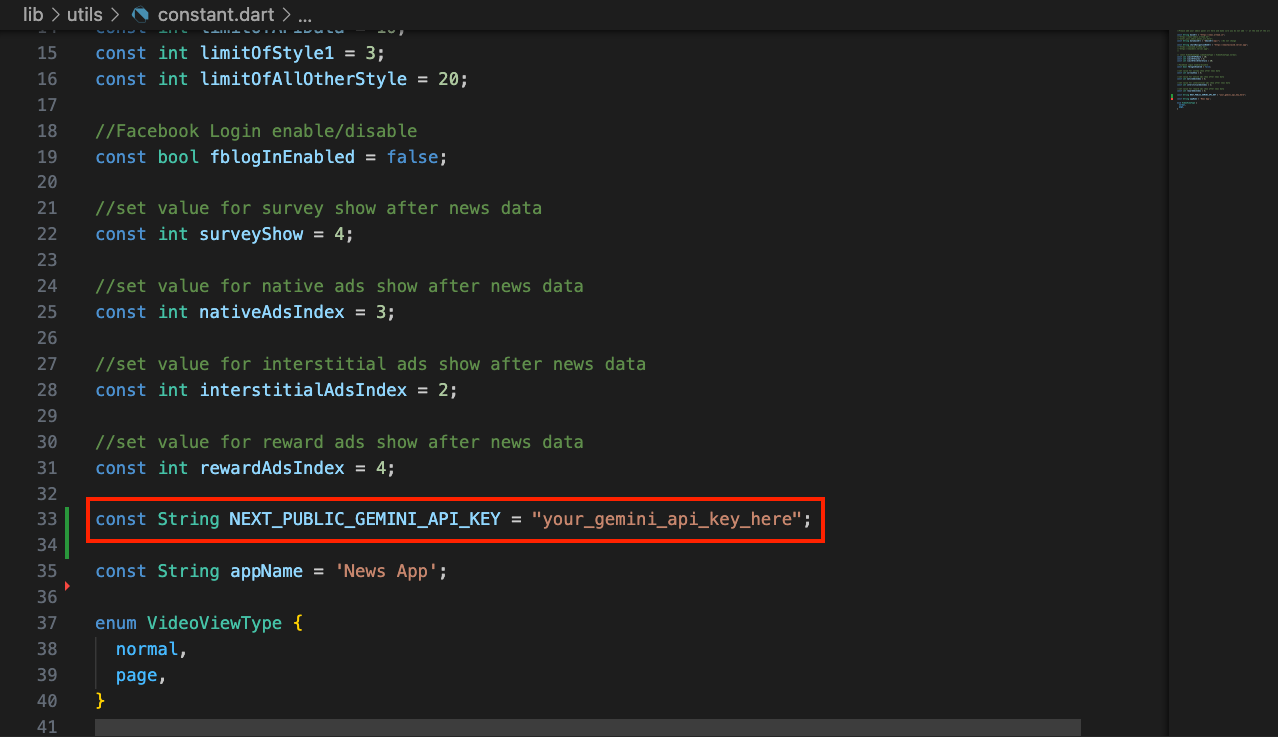
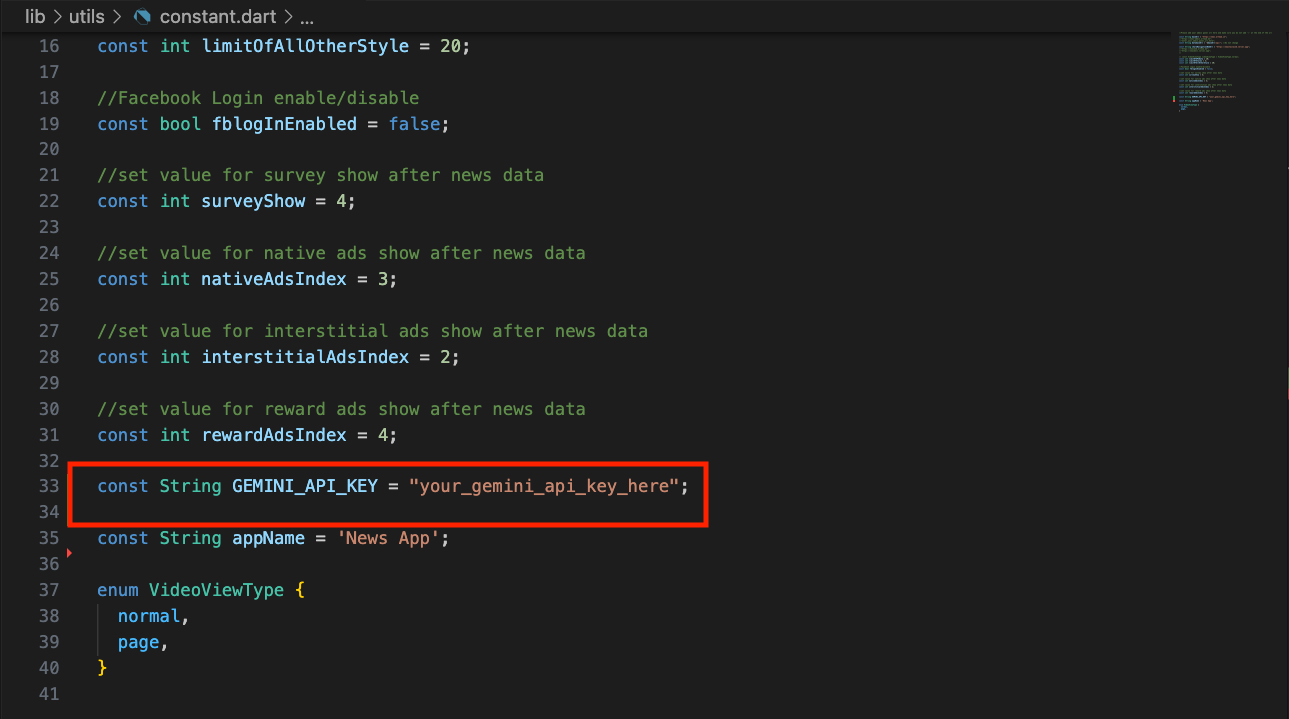
updated add gemini api key app, feedback and support page also

Changed region(s): [[0.0, 0.0, 0.8545, 1.0], [0.9155, 0.0306, 0.9765, 0.153]]

diff --git a/sidebars.js b/sidebars.js
@@ -73,7 +73,7 @@ const sidebars = {
         "app/ads-interval",
         "app/limit",
         "app/api",
-	"add-gemini-api-key-in-app",
+	"app/add-gemini-api-key-in-app",
         "app/change-lang",
         "app/apk",
         "app/app-bundle",
@@ -81,7 +81,6 @@ const sidebars = {
         "app/playstore-datasafety",
         "app/debug",
         "app/ref",
-	"app/get-gemini-api-key",
       ],
     },
     {

diff --git a/docs/app/add-gemini-api-key-in-app.md b/docs/app/add-gemini-api-key-in-app.md
@@ -2,11 +2,11 @@
 sidebar_position: 27
 ---
 
-# How to add Your Gemini api-key in web
+# How to add Your Gemini api-key in App
 
-1. First generate your api key [get-gemini-api-key](/docs/app/get-gemini-api-key.md).
+1. First generate your api key [get-gemini-api-key](/docs/web/get-gemini-api-key.md).
 
-2. Open your lib > utils > Constant.dart file and add it in NEXT_PUBLIC_GEMINI_API_KEY as shown in below image.
+2. Open lib > utils > Constant.dart File and add as value for GEMINI_API_KEY as shown in below image.
 
    ![create-api-key-button](/images/app/add-gemini-api-key-app.png)
 

diff --git a/docs/feedback.md b/docs/feedback.md
@@ -12,8 +12,8 @@ Dear valued customer, thank you very much for choosing our product. It's our ple
 
 You can also share your thoughts, ideas, and suggestions with us through:
 
-- Email: feedback@example.com
-- Feedback Form: [feedback.example.com](https://feedback.example.com)
+- Email: Support@wrteam.in
+- Feedback Form: [feedback](https://wrteam.in)
 
 ## Feature Requests
 

diff --git a/docs/support.md b/docs/support.md
@@ -18,5 +18,5 @@ Typically we reply to our customers for all questions and queries within 24 hour
 
 ## Support Channels
 
-- Email: support@example.com
-- Support Portal: [support.example.com](https://support.example.com)
+- Email: Support@wrteam.in
+- Support Portal: [WRTeam](https://wrteam.in)
